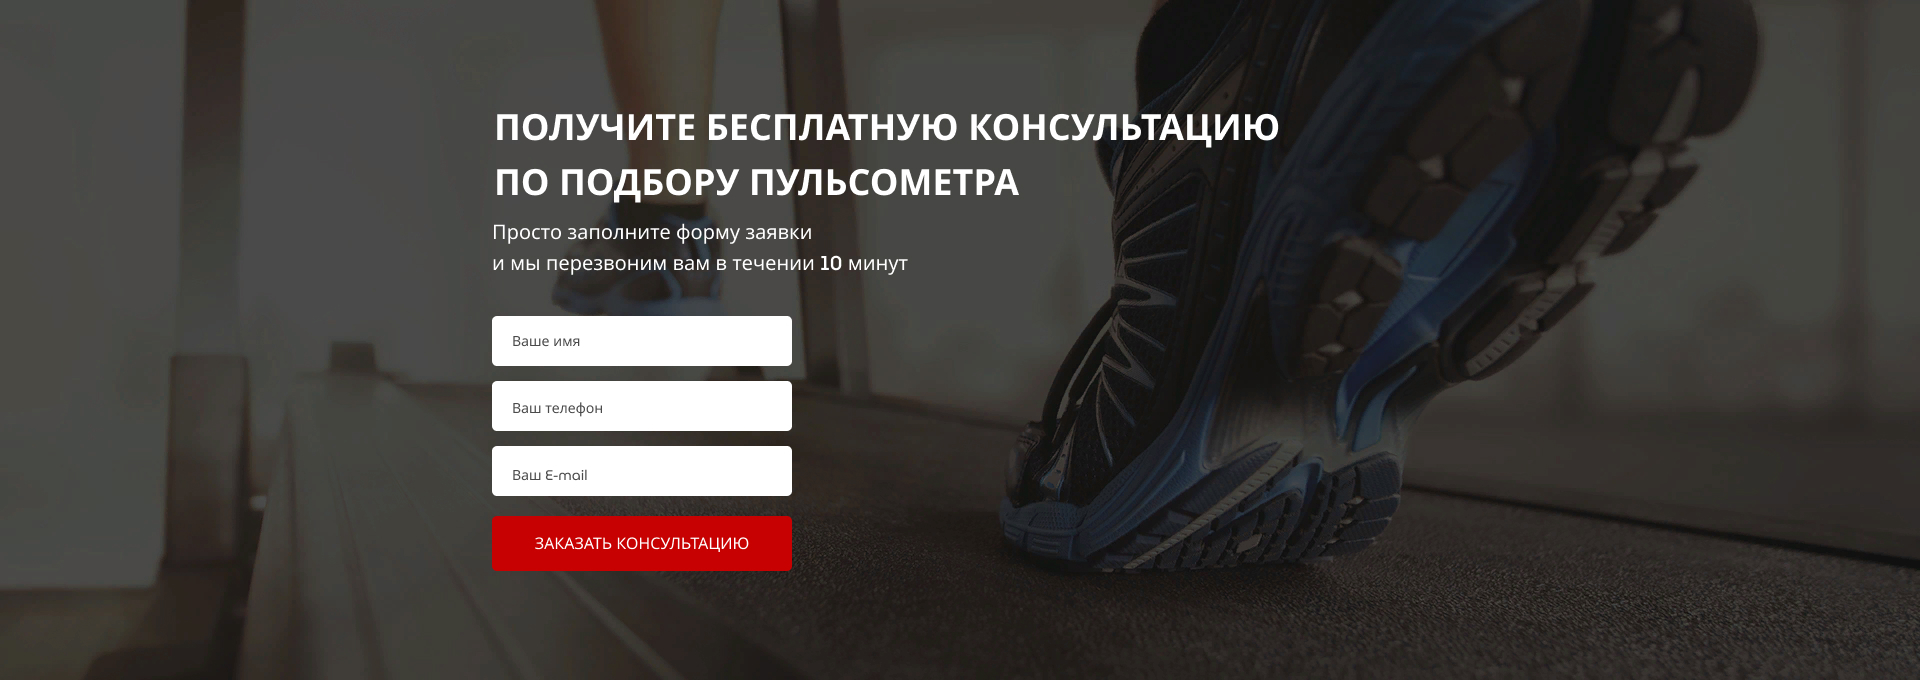
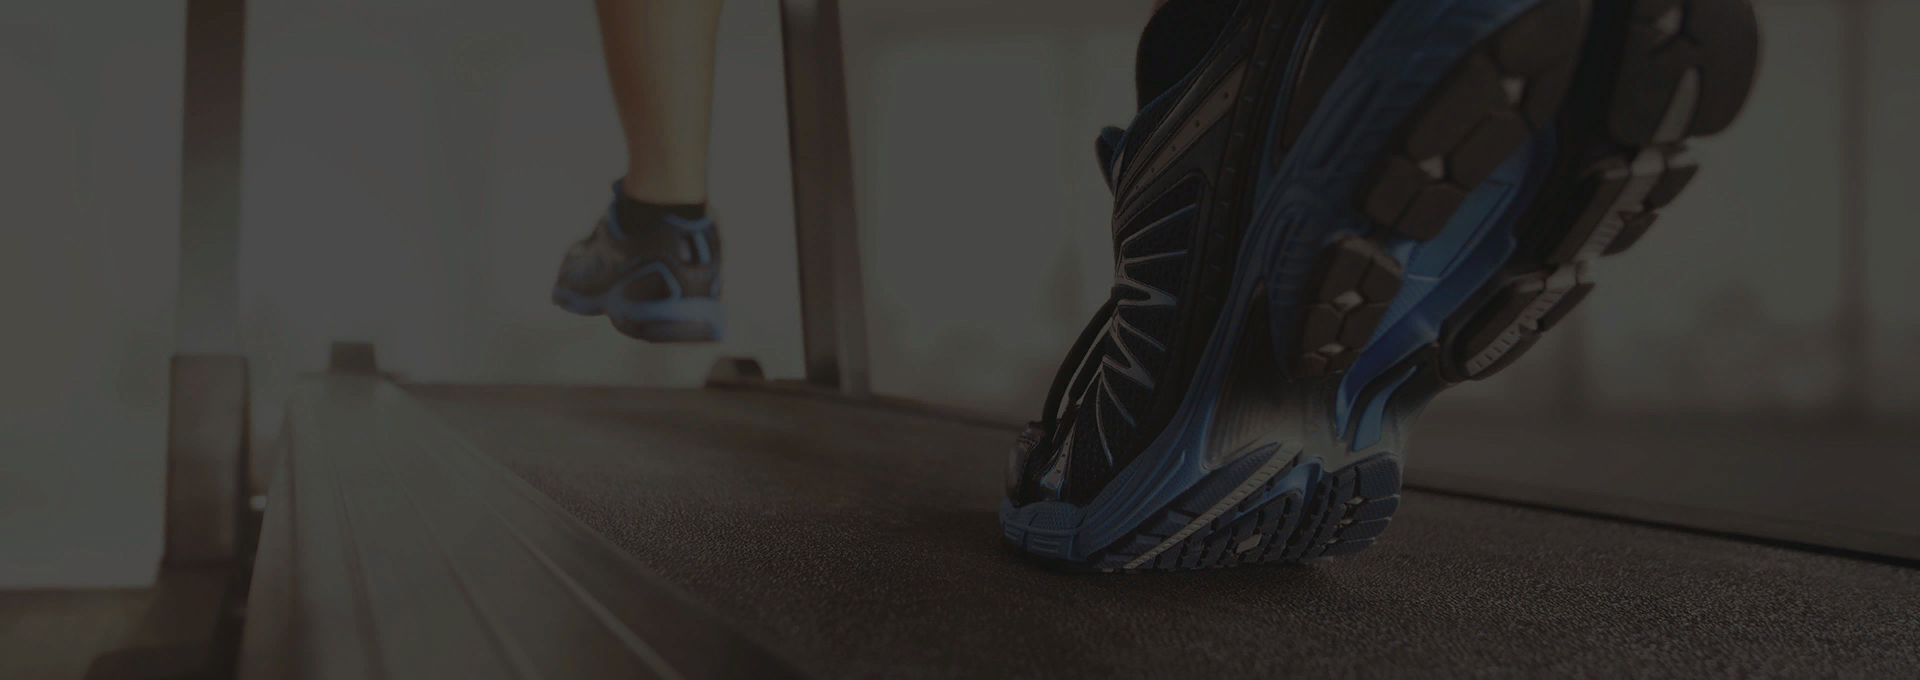
consultation section added and adapted

diff --git a/css/style.min.css b/css/style.min.css
@@ -1,1 +1,1 @@
-/*! normalize.css v8.0.1 | MIT License | github.com/necolas/normalize.css */html{line-height:1.15;-webkit-text-size-adjust:100%}body{margin:0}main{display:block}h1{font-size:2em;margin:.67em 0}hr{box-sizing:content-box;height:0;overflow:visible}pre{font-family:monospace,monospace;font-size:1em}a{background-color:transparent}abbr[title]{border-bottom:none;text-decoration:underline;text-decoration:underline dotted}b,strong{font-weight:bolder}code,kbd,samp{font-family:monospace,monospace;font-size:1em}small{font-size:80%}sub,sup{font-size:75%;line-height:0;position:relative;vertical-align:baseline}sub{bottom:-.25em}sup{top:-.5em}img{border-style:none}button,input,optgroup,select,textarea{font-family:inherit;font-size:100%;line-height:1.15;margin:0}button,input{overflow:visible}button,select{text-transform:none}[type=button],[type=reset],[type=submit],button{-webkit-appearance:button}[type=button]::-moz-focus-inner,[type=reset]::-moz-focus-inner,[type=submit]::-moz-focus-inner,button::-moz-focus-inner{border-style:none;padding:0}[type=button]:-moz-focusring,[type=reset]:-moz-focusring,[type=submit]:-moz-focusring,button:-moz-focusring{outline:1px dotted ButtonText}fieldset{padding:.35em .75em .625em}legend{box-sizing:border-box;color:inherit;display:table;max-width:100%;padding:0;white-space:normal}progress{vertical-align:baseline}textarea{overflow:auto}[type=checkbox],[type=radio]{box-sizing:border-box;padding:0}[type=number]::-webkit-inner-spin-button,[type=number]::-webkit-outer-spin-button{height:auto}[type=search]{-webkit-appearance:textfield;outline-offset:-2px}[type=search]::-webkit-search-decoration{-webkit-appearance:none}::-webkit-file-upload-button{-webkit-appearance:button;font:inherit}details{display:block}summary{display:list-item}template{display:none}[hidden]{display:none}:root{--red-col:#C70101;--white-col:#F6F6F6;--black-col:#0D0D0D;--font:"MuseoModerno",sans-serif}.promo{min-height:650px;padding:21px 0 93px 0;background:url(../img/bg/girl_run.jpg) center center/cover no-repeat}.promo__wrapper{margin-top:91px;display:flex;flex-direction:column;align-items:flex-end}.promo__header{font-size:42px;font-weight:700;text-transform:uppercase;color:var(--white-col,#fff);text-align:center}.promo__subheader{margin-top:10px;font-weight:500;font-size:24px;text-transform:uppercase;color:var(--white-col,#fff);text-align:center}.promo__icons{margin-top:60px;width:424px;display:flex;justify-content:space-between}.promo__ico{text-align:center;width:130px;color:var(--white-col,#fff);font-weight:300;font-size:14px}.promo__ico span{font-size:46px;margin-bottom:20px}.promo__link{margin-top:8px;font-weight:500;font-size:16px;color:var(--white-col,#fff)}.promo__link a:hover{color:var(--red-col,#8b0000)}@media (max-width:1000px){.promo__wrapper{margin:0 50px;margin-top:100px}}@media (max-width:800px){.promo__wrapper{align-items:center}}@media (max-width:600px){.promo{background:url(../img/bg/girl_run.jpg) left center/cover no-repeat;background-position:-600px}.promo__wrapper{margin-top:10px}.promo__header{font-size:30px}.promo__subheader{font-size:20px}.promo__link{margin-top:20px}}@media (max-width:430px){.promo__icons{width:100%;justify-content:space-around;flex-wrap:wrap}}.header{display:flex;justify-content:space-between;align-items:center}.header__logo{width:250px;position:relative}img{width:100%;transition:.5s}img:hover{transform:scale(1.1)}.header__official{color:var(--white-col,#fff);font-size:12px;font-weight:500;text-align:center}span{margin-top:7px;display:block;font-size:18px}.header__contacts{flex-direction:column;display:flex;align-items:flex-end}.header__phone{display:block;font-size:18px;font-weight:700;text-decoration:none;color:var(--white-col,#fff);margin-bottom:4px}.header__phone:hover{color:var(--red-col,#8b0000)}@media (max-width:1000px){.header{margin:0 50px}}@media (max-width:800px){.header{margin:0 20px;flex-wrap:wrap;justify-content:space-around}.header__logo{margin-bottom:30px;margin-right:10px}img{transition:.3s}img:hover{position:inherit;width:100%;bottom:0;right:0;transform:none}img:active{filter:blur(6px)}.header__contacts{order:1;margin-bottom:30px;margin-left:10px}.header__phone:hover{color:inherit}.header__phone:active{color:var(--red-col,#8b0000)}.header__official{order:2;margin-left:20px}}@media (max-width:480px){.header{justify-content:center;margin:0}.header__official{display:none}}.button{width:153px;height:32px;background-color:var(--red-col,#8b0000);border-radius:5px;border:none;color:var(--white-col,#fff);font-weight:500;font-size:12px;text-transform:uppercase;transition:.3s}.button:hover{background-color:#8b0000}.button_main{margin-top:65px;width:303px;height:54px;font-size:16px}@media (max-width:1000px){.button:hover{background-color:var(--red-col,#8b0000)}.button:active{background-color:#8b0000}}.advantage{min-height:473px;background-color:var(--white-col,#fff);padding:70px 0}.advantage__header{text-align:center;font-size:30px;font-weight:700;text-transform:uppercase;color:var(--black-col,#000)}.advantage__block{margin-top:60px;display:flex;justify-content:space-between;flex-wrap:wrap}.advantage__item{max-width:270px;text-align:center;color:var(--black-col,#000)}.advantage__item span{color:var(--red-col,#8b0000);font-size:70px;text-align:center}.advantage__item-header{margin-top:35px;font-size:18px;font-weight:700}.advantage__txt{margin-top:20px;font-weight:300;font-size:14px;color:var(--black-col,#000)}.advantage__link{color:var(--red-col,#8b0000);text-decoration:none}@media (max-width:900px){.advantage__block{justify-content:space-around}.advantage__item:first-child{margin-right:20px}.advantage__item:nth-child(2){margin-left:20px}}@media (max-width:580px){.advantage__item:nth-child(2){margin-left:20px;margin-top:30px}.advantage__item:last-child{margin-top:30px}}@media (max-width:560px){.advantage__block{flex-direction:column;justify-content:center;align-items:center}.advantage__item:first-child{margin:0}.advantage__item:nth-last-child(2){margin-left:0}.advantage__item:last-child{margin-left:0}}*{box-sizing:border-box;font-family:var(--font)}@font-face{font-family:icomoon;src:url(../fonts/icomoon.eot?g70uxo);src:url(../fonts/icomoon.eot?g70uxo#iefix) format('embedded-opentype'),url(../fonts/icomoon.ttf?g70uxo) format('truetype'),url("../'fonts/icomoon.woff?g70uxo") format('woff'),url(../fonts/icomoon.svg?g70uxo#icomoon) format('svg');font-weight:400;font-style:normal;font-display:block}.container{max-width:950px;margin:0 auto}
+/*! normalize.css v8.0.1 | MIT License | github.com/necolas/normalize.css */html{line-height:1.15;-webkit-text-size-adjust:100%}body{margin:0}main{display:block}h1{font-size:2em;margin:.67em 0}hr{box-sizing:content-box;height:0;overflow:visible}pre{font-family:monospace,monospace;font-size:1em}a{background-color:transparent}abbr[title]{border-bottom:none;text-decoration:underline;text-decoration:underline dotted}b,strong{font-weight:bolder}code,kbd,samp{font-family:monospace,monospace;font-size:1em}small{font-size:80%}sub,sup{font-size:75%;line-height:0;position:relative;vertical-align:baseline}sub{bottom:-.25em}sup{top:-.5em}img{border-style:none}button,input,optgroup,select,textarea{font-family:inherit;font-size:100%;line-height:1.15;margin:0}button,input{overflow:visible}button,select{text-transform:none}[type=button],[type=reset],[type=submit],button{-webkit-appearance:button}[type=button]::-moz-focus-inner,[type=reset]::-moz-focus-inner,[type=submit]::-moz-focus-inner,button::-moz-focus-inner{border-style:none;padding:0}[type=button]:-moz-focusring,[type=reset]:-moz-focusring,[type=submit]:-moz-focusring,button:-moz-focusring{outline:1px dotted ButtonText}fieldset{padding:.35em .75em .625em}legend{box-sizing:border-box;color:inherit;display:table;max-width:100%;padding:0;white-space:normal}progress{vertical-align:baseline}textarea{overflow:auto}[type=checkbox],[type=radio]{box-sizing:border-box;padding:0}[type=number]::-webkit-inner-spin-button,[type=number]::-webkit-outer-spin-button{height:auto}[type=search]{-webkit-appearance:textfield;outline-offset:-2px}[type=search]::-webkit-search-decoration{-webkit-appearance:none}::-webkit-file-upload-button{-webkit-appearance:button;font:inherit}details{display:block}summary{display:list-item}template{display:none}[hidden]{display:none}:root{--red-col:#C70101;--white-col:#F6F6F6;--black-col:#0D0D0D;--font:"MuseoModerno",sans-serif}.promo{min-height:650px;padding:21px 0 93px 0;background:url(../img/bg/girl_run.jpg) center center/cover no-repeat}.promo__wrapper{margin-top:91px;display:flex;flex-direction:column;align-items:flex-end}.promo__header{font-size:42px;font-weight:700;text-transform:uppercase;color:var(--white-col,#fff);text-align:center}.promo__subheader{margin-top:10px;font-weight:500;font-size:24px;text-transform:uppercase;color:var(--white-col,#fff);text-align:center}.promo__icons{margin-top:60px;width:424px;display:flex;justify-content:space-between}.promo__ico{text-align:center;width:130px;color:var(--white-col,#fff);font-weight:300;font-size:14px}.promo__ico span{font-size:46px;margin-bottom:20px}.promo__link{margin-top:8px;font-weight:500;font-size:16px;color:var(--white-col,#fff)}.promo__link a:hover{color:var(--red-col,#8b0000)}@media (max-width:1000px){.promo__wrapper{margin:0 50px;margin-top:100px}}@media (max-width:800px){.promo__wrapper{align-items:center}}@media (max-width:600px){.promo{background:url(../img/bg/girl_run.jpg) left center/cover no-repeat;background-position:-600px}.promo__wrapper{margin-top:10px}.promo__header{font-size:30px}.promo__subheader{font-size:20px}.promo__link{margin-top:20px}}@media (max-width:430px){.promo__icons{width:100%;justify-content:space-around;flex-wrap:wrap}}.header{display:flex;justify-content:space-between;align-items:center}.header__logo{width:250px;position:relative}img{width:100%;transition:.5s}img:hover{transform:scale(1.1)}.header__official{color:var(--white-col,#fff);font-size:12px;font-weight:500;text-align:center}span{margin-top:7px;display:block;font-size:18px}.header__contacts{flex-direction:column;display:flex;align-items:flex-end}.header__phone{display:block;font-size:18px;font-weight:700;text-decoration:none;color:var(--white-col,#fff);margin-bottom:4px}.header__phone:hover{color:var(--red-col,#8b0000)}@media (max-width:1000px){.header{margin:0 50px}}@media (max-width:800px){.header{margin:0 20px;flex-wrap:wrap;justify-content:space-around}.header__logo{margin-bottom:30px;margin-right:10px}img{transition:.3s}img:hover{position:inherit;width:100%;bottom:0;right:0;transform:none}img:active{filter:blur(6px)}.header__contacts{order:1;margin-bottom:30px;margin-left:10px}.header__phone:hover{color:inherit}.header__phone:active{color:var(--red-col,#8b0000)}.header__official{order:2;margin-left:20px}}@media (max-width:480px){.header{justify-content:center;margin:0}.header__official{display:none}}.button{width:153px;height:32px;background-color:var(--red-col,#8b0000);border-radius:5px;border:none;color:var(--white-col,#fff);font-weight:500;font-size:12px;text-transform:uppercase;transition:.3s}.button:hover{background-color:#8b0000}@media (max-width:1000px){.button:hover{background-color:var(--red-col,#8b0000)}.button:active{background-color:#8b0000}}.button_main{margin-top:65px;width:303px;height:54px;font-size:16px}.consultation__button{margin:0;width:303px;height:58px;font-size:16px}.advantage{min-height:473px;background-color:var(--white-col,#fff);padding:70px 0}.advantage__header{text-align:center;font-size:30px;font-weight:700;text-transform:uppercase;color:var(--black-col,#000)}.advantage__block{margin-top:60px;display:flex;justify-content:space-between;flex-wrap:wrap}.advantage__item{max-width:270px;text-align:center;color:var(--black-col,#000)}.advantage__item span{color:var(--red-col,#8b0000);font-size:70px;text-align:center}.advantage__item-header{margin-top:35px;font-size:18px;font-weight:700}.advantage__txt{margin-top:20px;font-weight:300;font-size:14px;color:var(--black-col,#000)}.advantage__link{color:var(--red-col,#8b0000);text-decoration:none;transition:.3s}.advantage__link:hover{font-size:16px;color:#8b0000}@media (max-width:900px){.advantage__block{justify-content:space-around}.advantage__item:first-child{margin-right:20px}.advantage__item:nth-child(2){margin-left:20px}.advantage__link:hover{color:inherit}.advantage__link:active{font-size:14px;color:#8b0000}}@media (max-width:580px){.advantage__item:nth-child(2){margin-left:20px;margin-top:30px}.advantage__item:last-child{margin-top:30px}}@media (max-width:560px){.advantage__block{flex-direction:column;justify-content:center;align-items:center}.advantage__item:first-child{margin:0}.advantage__item:nth-last-child(2){margin-left:0}.advantage__item:last-child{margin-left:0}}.consultation{min-height:680px;padding:100px 0;background:url(../img/bg/consultation.jpg) center center/cover}.consultation__subheader{font-weight:700;font-size:36px;color:var(--white-col,#fff);max-width:800px}.consultation_txt{max-width:430px;font-weight:500;font-size:20px;color:var(--white-col,#fff)}@media (max-width:1000px){.consultation__subheader{font-size:30px;margin-left:30px}.consultation_txt{font-size:15px;margin-left:30px}}@media (max-width:800px){.consultation__subheader{text-align:center;margin:inherit 20px}.consultation_txt{text-align:center;margin:inherit auto 0;max-width:100%}}.consultation__form{margin-top:36px;display:flex;flex-direction:column}.consultation__form input{margin-bottom:15px;height:54px;width:303px;border:none;border-radius:4px;padding:0 20px;color:#4b4b4b}.consultation__form input:nth-child(3){margin-bottom:20px}@media (max-width:1000px){.consultation__form{margin-left:30px}}@media (max-width:800px){.consultation__form{align-items:center;margin-left:0}}*{box-sizing:border-box;font-family:var(--font)}@font-face{font-family:icomoon;src:url(../fonts/icomoon.eot?g70uxo);src:url(../fonts/icomoon.eot?g70uxo#iefix) format('embedded-opentype'),url(../fonts/icomoon.ttf?g70uxo) format('truetype'),url("../'fonts/icomoon.woff?g70uxo") format('woff'),url(../fonts/icomoon.svg?g70uxo#icomoon) format('svg');font-weight:400;font-style:normal;font-display:block}.container{max-width:950px;margin:0 auto}

diff --git a/css/_advantage.min.css b/css/_advantage.min.css
@@ -1,1 +1,1 @@
-.advantage{min-height:473px;background-color:var(--white-col,#fff);padding:70px 0}.advantage__header{text-align:center;font-size:30px;font-weight:700;text-transform:uppercase;color:var(--black-col,#000)}.advantage__block{margin-top:60px;display:flex;justify-content:space-between;flex-wrap:wrap}.advantage__item{max-width:270px;text-align:center;color:var(--black-col,#000)}.advantage__item span{color:var(--red-col,#8b0000);font-size:70px;text-align:center}.advantage__item-header{margin-top:35px;font-size:18px;font-weight:700}.advantage__txt{margin-top:20px;font-weight:300;font-size:14px;color:var(--black-col,#000)}.advantage__link{color:var(--red-col,#8b0000);text-decoration:none}@media (max-width:900px){.advantage__block{justify-content:space-around}.advantage__item:first-child{margin-right:20px}.advantage__item:nth-child(2){margin-left:20px}}@media (max-width:580px){.advantage__item:nth-child(2){margin-left:20px;margin-top:30px}.advantage__item:last-child{margin-top:30px}}@media (max-width:560px){.advantage__block{flex-direction:column;justify-content:center;align-items:center}.advantage__item:first-child{margin:0}.advantage__item:nth-last-child(2){margin-left:0}.advantage__item:last-child{margin-left:0}}
+.advantage{min-height:473px;background-color:var(--white-col,#fff);padding:70px 0}.advantage__header{text-align:center;font-size:30px;font-weight:700;text-transform:uppercase;color:var(--black-col,#000)}.advantage__block{margin-top:60px;display:flex;justify-content:space-between;flex-wrap:wrap}.advantage__item{max-width:270px;text-align:center;color:var(--black-col,#000)}.advantage__item span{color:var(--red-col,#8b0000);font-size:70px;text-align:center}.advantage__item-header{margin-top:35px;font-size:18px;font-weight:700}.advantage__txt{margin-top:20px;font-weight:300;font-size:14px;color:var(--black-col,#000)}.advantage__link{color:var(--red-col,#8b0000);text-decoration:none;transition:.3s}.advantage__link:hover{font-size:16px;color:#8b0000}@media (max-width:900px){.advantage__block{justify-content:space-around}.advantage__item:first-child{margin-right:20px}.advantage__item:nth-child(2){margin-left:20px}.advantage__link:hover{color:inherit}.advantage__link:active{font-size:14px;color:#8b0000}}@media (max-width:580px){.advantage__item:nth-child(2){margin-left:20px;margin-top:30px}.advantage__item:last-child{margin-top:30px}}@media (max-width:560px){.advantage__block{flex-direction:column;justify-content:center;align-items:center}.advantage__item:first-child{margin:0}.advantage__item:nth-last-child(2){margin-left:0}.advantage__item:last-child{margin-left:0}}

diff --git a/index.html b/index.html
@@ -71,6 +71,21 @@
             </div>
         </div>
     </div>
+    <div class="consultation">
+        <div class="container">
+            <h2 class="consultation__subheader">Получите бесплатную консультацию по подбору пульсометра </h2>
+            <div class="consultation_txt">Просто заполните форму заявки и мы перезвоним вам в течении 10 минут</div>
+            <div class="">
+                <form action="#" class="consultation__form">
+                        <input name="name" required placeholder="ваше имя" type="text">
+                        <input name="tel" required placeholder="Ваш телефон" type="tel">
+                        <input name="email" required placeholder="Ваш E-mail" type="email">
+                        <button class="button consultation__button">заказать кОНСУЛЬТАЦИЮ</button>
+                </form>
+            </div>
+            
+        </div>
+    </div>
 </body>
 
 </html>

diff --git a/css/_buttons.min.css b/css/_buttons.min.css
@@ -1,1 +1,1 @@
-.button{width:153px;height:32px;background-color:var(--red-col,#8b0000);border-radius:5px;border:none;color:var(--white-col,#fff);font-weight:500;font-size:12px;text-transform:uppercase;transition:.3s}.button:hover{background-color:#8b0000}.button_main{margin-top:65px;width:303px;height:54px;font-size:16px}@media (max-width:1000px){.button:hover{background-color:var(--red-col,#8b0000)}.button:active{background-color:#8b0000}}
+.button{width:153px;height:32px;background-color:var(--red-col,#8b0000);border-radius:5px;border:none;color:var(--white-col,#fff);font-weight:500;font-size:12px;text-transform:uppercase;transition:.3s}.button:hover{background-color:#8b0000}@media (max-width:1000px){.button:hover{background-color:var(--red-col,#8b0000)}.button:active{background-color:#8b0000}}.button_main{margin-top:65px;width:303px;height:54px;font-size:16px}.consultation__button{margin:0;width:303px;height:58px;font-size:16px}

diff --git a/css/_consultation.min.css b/css/_consultation.min.css
@@ -1,0 +1,1 @@
+.consultation{min-height:680px;padding:100px 0;background:url(../img/bg/consultation.jpg) center center/cover}.consultation__subheader{font-weight:700;font-size:36px;color:var(--white-col,#fff);max-width:800px}.consultation_txt{max-width:430px;font-weight:500;font-size:20px;color:var(--white-col,#fff)}@media (max-width:1000px){.consultation__subheader{font-size:30px;margin-left:30px}.consultation_txt{font-size:15px;margin-left:30px}}@media (max-width:800px){.consultation__subheader{text-align:center;margin:inherit 20px}.consultation_txt{text-align:center;margin:inherit auto 0;max-width:100%}}

diff --git a/css/forms.min.css b/css/forms.min.css
@@ -1,0 +1,1 @@
+.consultation__form{margin-top:36px;display:flex;flex-direction:column}.consultation__form input{margin-bottom:15px;height:54px;width:303px;border:none;border-radius:4px;padding:0 20px;color:#4b4b4b}.consultation__form input:nth-child(3){margin-bottom:20px}@media (max-width:1000px){.consultation__form{margin-left:30px}}@media (max-width:800px){.consultation__form{align-items:center;margin-left:0}}
